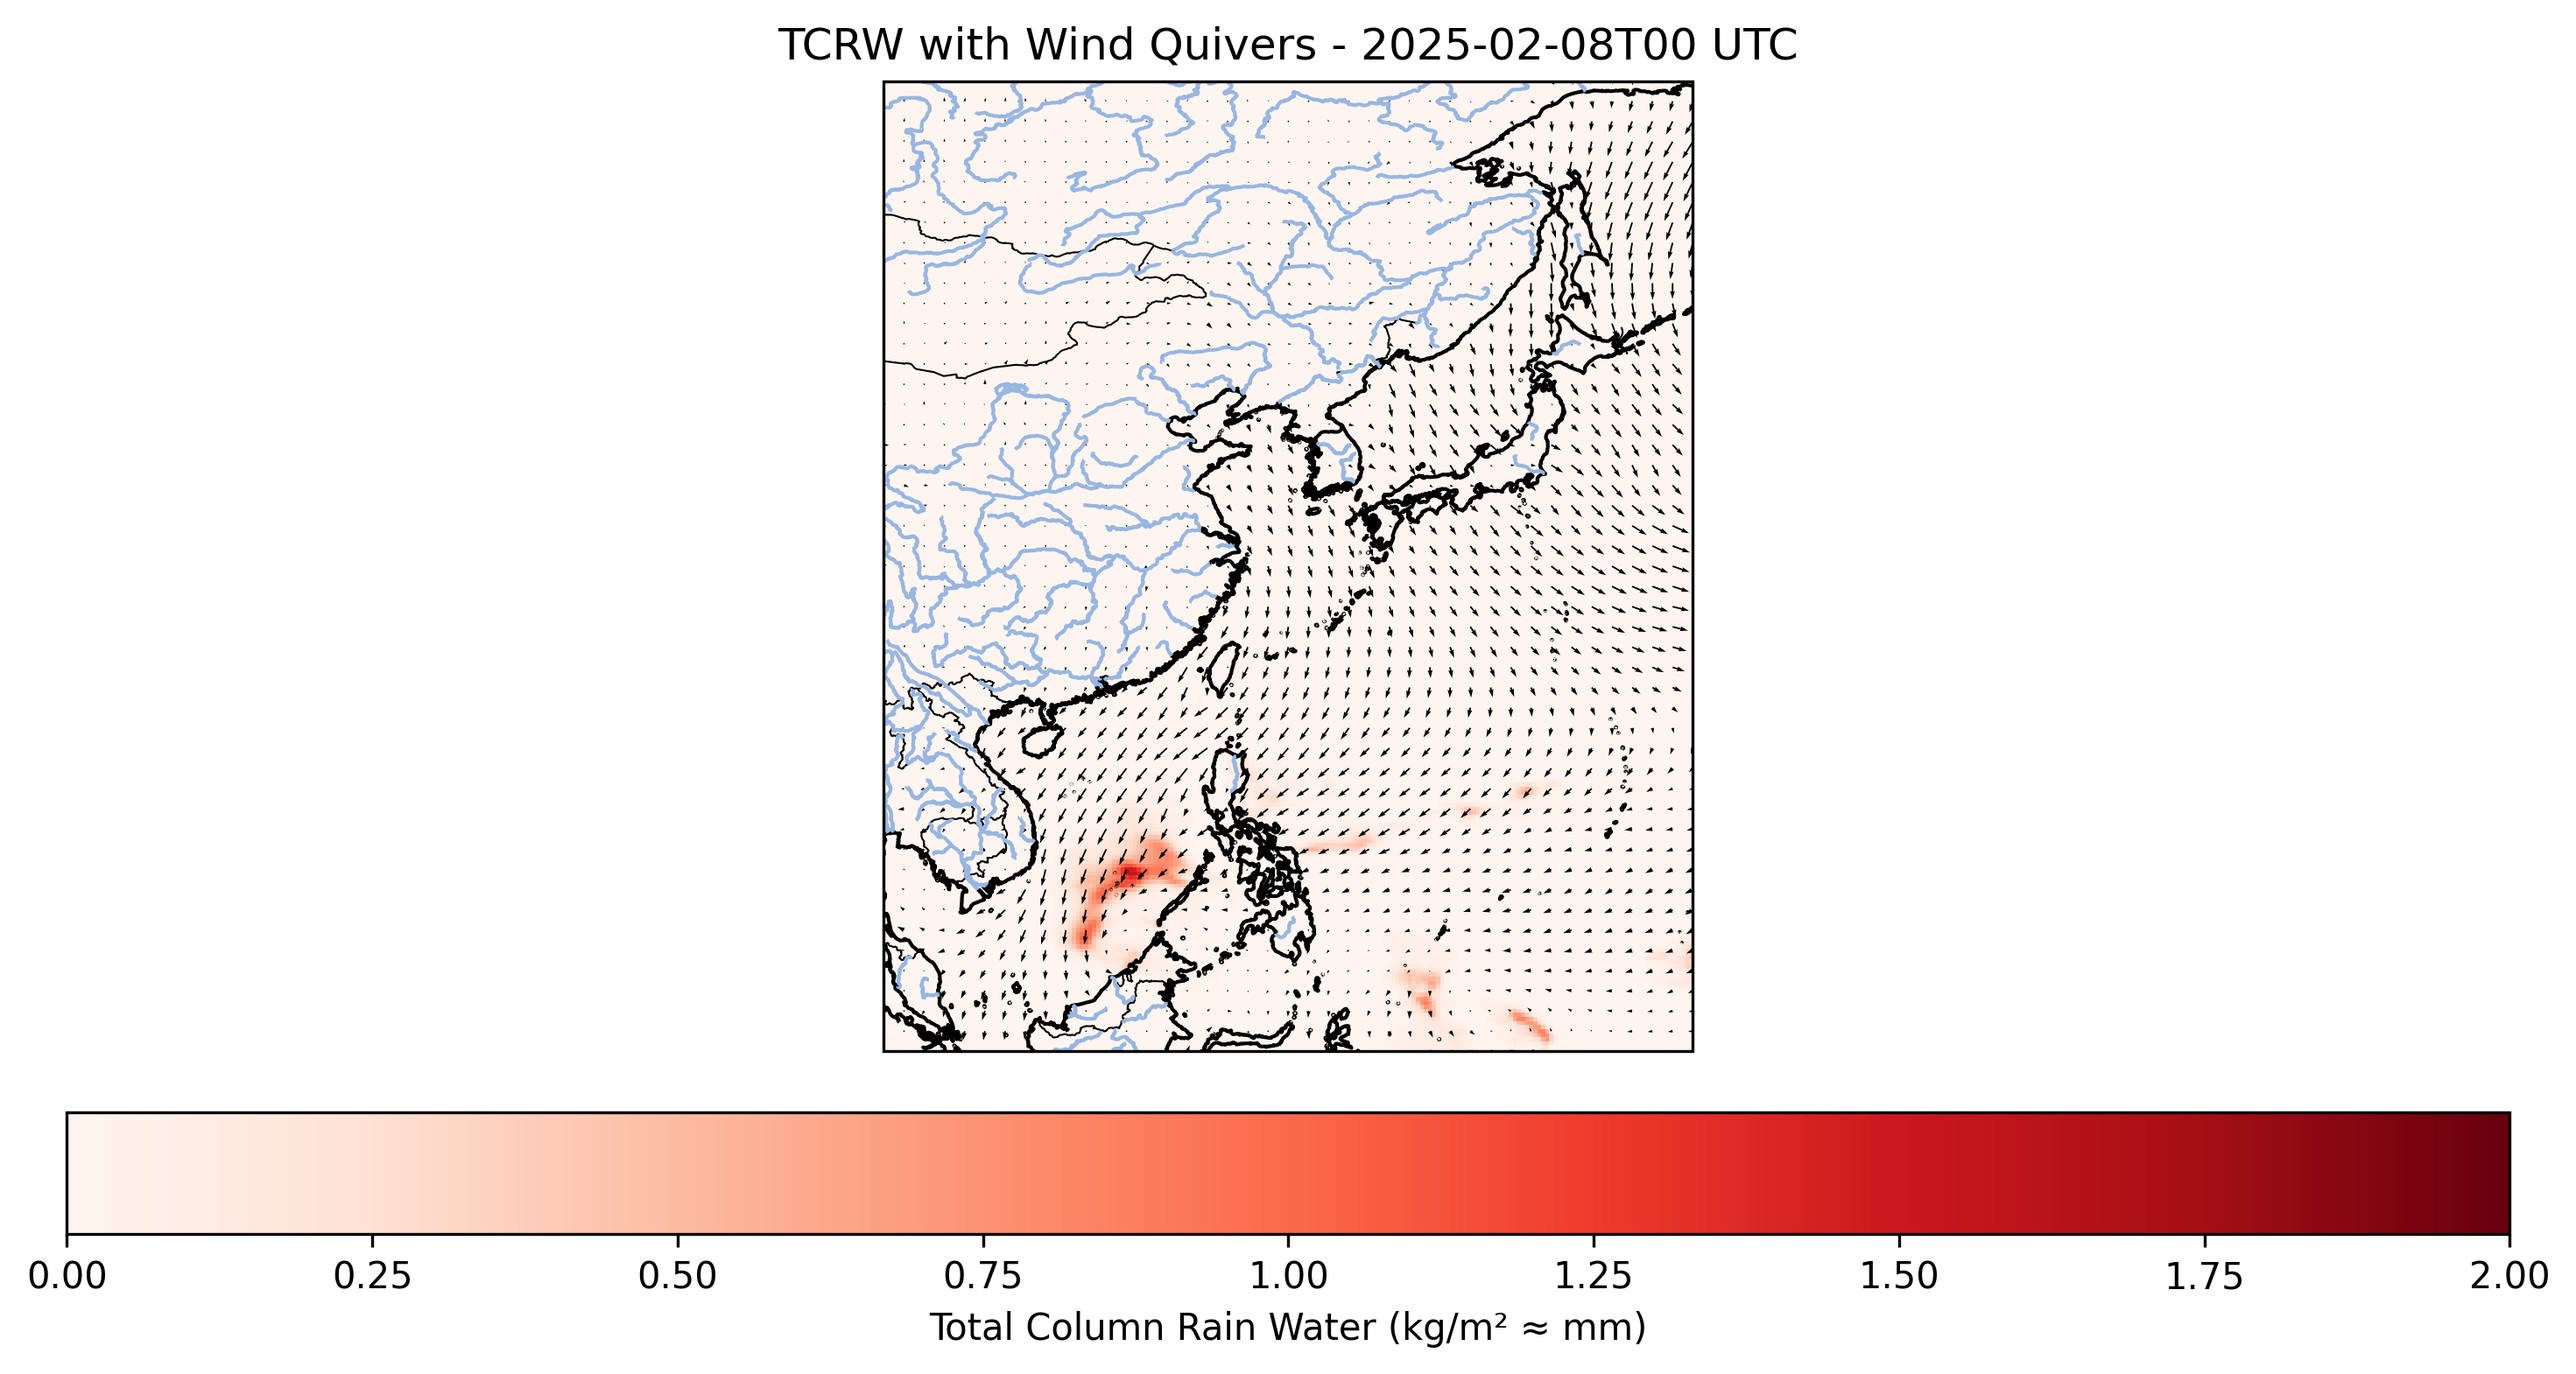
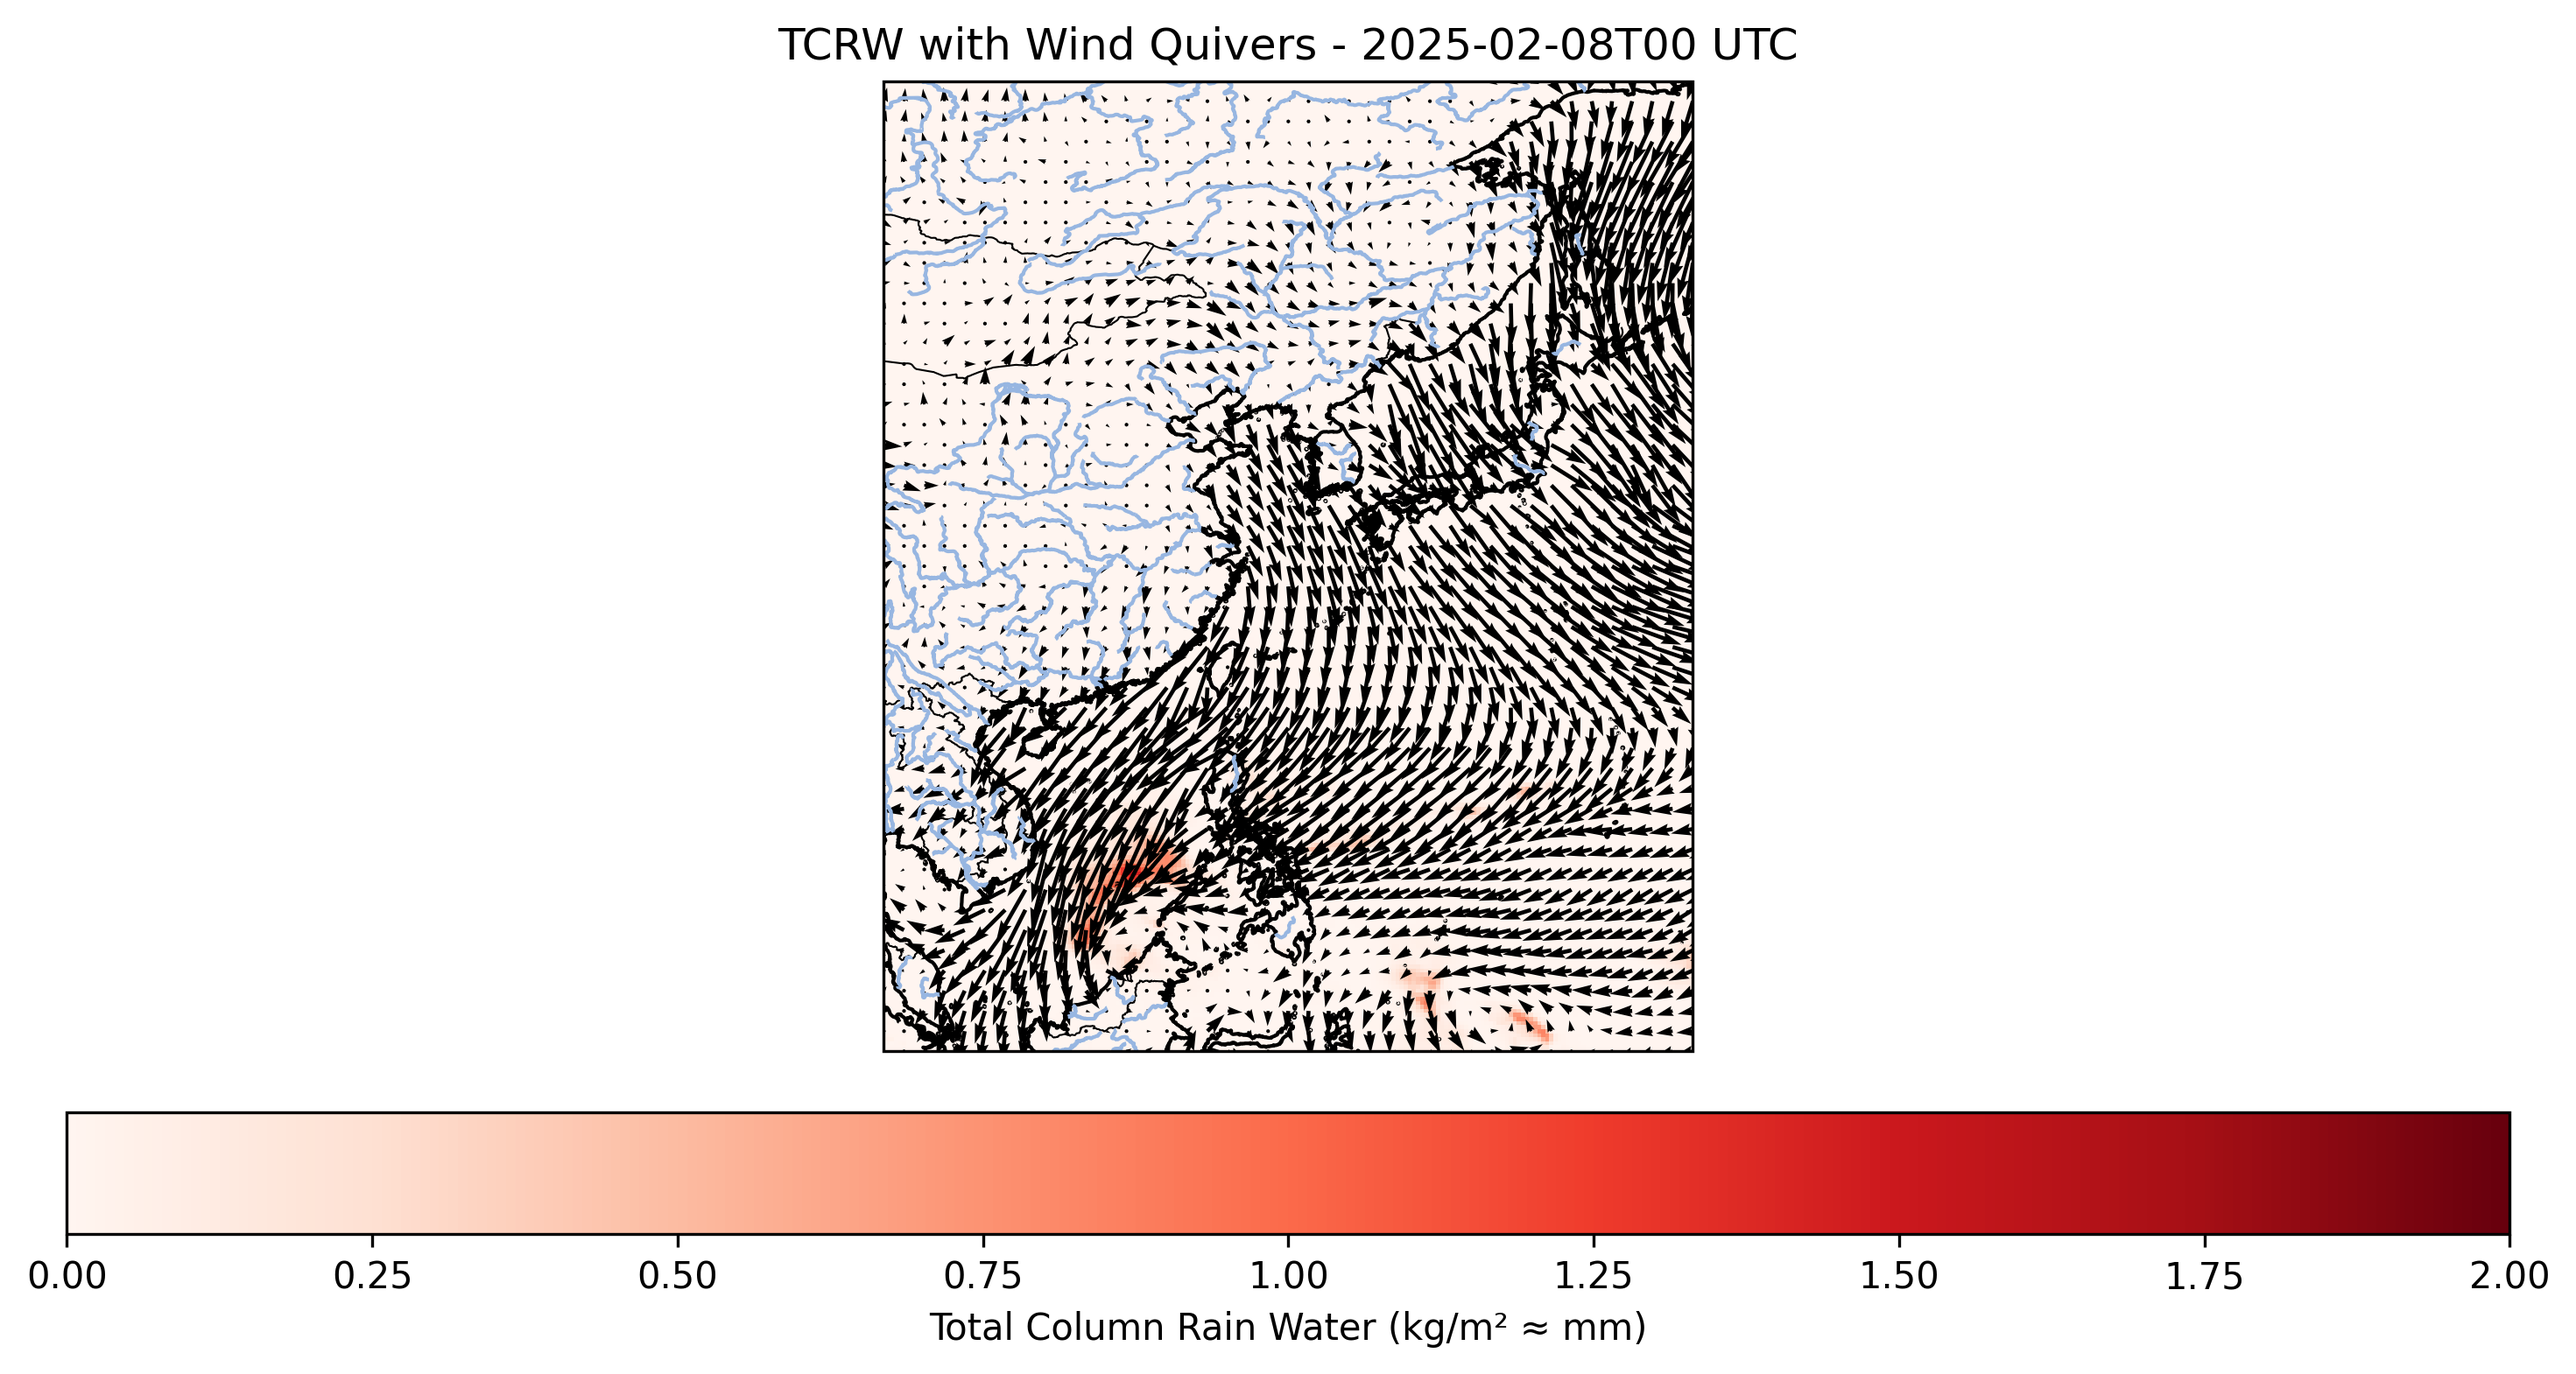
-added mslp_anomaly.py and tcrw_anomaly.py -edited quiver attributes

diff --git a/mslp_anomaly.py b/mslp_anomaly.py
@@ -1,0 +1,83 @@
+import os
+import numpy as np
+import xarray as xr
+import matplotlib.pyplot as plt
+import cartopy.crs as ccrs
+import cartopy.feature as cfeature
+
+def plot_mslp_wind_anomaly(mslp_anom, u_anom, v_anom, lon, lat, time, index, extent, output_dir):
+    """Plot MSLP anomaly with wind anomaly quivers."""
+    lon2d, lat2d = np.meshgrid(lon, lat)
+
+    fig, ax = plt.subplots(figsize=(10, 6), subplot_kw={'projection': ccrs.PlateCarree()})
+    ax.set_extent(extent, crs=ccrs.PlateCarree())
+    ax.coastlines(resolution='10m')
+    ax.add_feature(cfeature.LAND.with_scale('10m'), facecolor='lightgray')
+    ax.add_feature(cfeature.BORDERS.with_scale('10m'), linestyle=':')
+
+    # MSLP anomaly shading
+    pcm = ax.pcolormesh(
+        lon2d, lat2d, mslp_anom,
+        cmap='coolwarm_r',
+        vmin=-30, vmax=30,
+        shading='auto',
+        transform=ccrs.PlateCarree()
+    )
+    plt.colorbar(pcm, ax=ax, label='MSLP Anomaly (hPa)', orientation='vertical', fraction=0.046, pad=0.04)
+
+    # Wind anomaly quiver
+    skip = 5
+    ax.quiver(
+        lon[::skip], lat[::skip],
+        u_anom[::skip, ::skip], v_anom[::skip, ::skip],
+        scale=200, width=0.005, color='black',
+        transform=ccrs.PlateCarree()
+    )
+
+    timestamp = np.datetime_as_string(time, unit='h')
+    ax.set_title(f"MSLP Anomaly with Wind Anomaly - {timestamp} UTC")
+
+    plt.savefig(os.path.join(output_dir, f"mslp_wind_anomaly_{index:03}.png"), dpi=150, bbox_inches='tight')
+    plt.close()
+
+# === Main script ===
+
+# Input/output
+input_dir = r'Y:\wfs_shared\Personnel Files\DJEV\Palawan_Shear_Line\event'
+clim_mslp_file = r'mean_mslp_output\ndjfm_mslp_mean.nc'
+clim_wind_file = r'mean_wind_30years_output\30yr_NDJFM_mean_wind.nc'
+output_dir = 'mslp_anomaly_output'
+os.makedirs(output_dir, exist_ok=True)
+
+# Load event data
+ds_mslp = xr.open_dataset(os.path.join(input_dir, 'mslp.nc'))
+ds_u10 = xr.open_dataset(os.path.join(input_dir, 'u10.nc'))
+ds_v10 = xr.open_dataset(os.path.join(input_dir, 'v10.nc'))
+
+# Load climatology
+clim_mslp = xr.open_dataset(clim_mslp_file)['msl']
+clim_u10 = xr.open_dataset(clim_wind_file)['u10_mean']
+clim_v10 = xr.open_dataset(clim_wind_file)['v10_mean']
+
+# Variables
+mslp = ds_mslp['msl']
+u10 = ds_u10['u10']
+v10 = ds_v10['v10']
+
+lon = mslp.longitude.values
+lat = mslp.latitude.values
+times = mslp.valid_time.values
+
+extent = [100, 150, 0, 60]
+
+# Loop through time steps and call the function
+for i, time in enumerate(times):
+    mslp_evt = mslp.sel(valid_time=time).values.squeeze() / 100.0  # Pa to hPa
+    u10_evt = u10.sel(valid_time=time).values
+    v10_evt = v10.sel(valid_time=time).values
+
+    mslp_anom = mslp_evt - clim_mslp.values.squeeze() / 100.0
+    u_anom = u10_evt - clim_u10.values.squeeze()
+    v_anom = v10_evt - clim_v10.values.squeeze()
+
+    plot_mslp_wind_anomaly(mslp_anom, u_anom, v_anom, lon, lat, time, i, extent, output_dir)

diff --git a/tcrw_anomaly.py b/tcrw_anomaly.py
@@ -1,0 +1,85 @@
+import os
+import numpy as np
+import xarray as xr
+import matplotlib.pyplot as plt
+import cartopy.crs as ccrs
+import cartopy.feature as cfeature
+
+# Input/output file paths
+event_tcrw_file = r'Y:\wfs_shared\Personnel Files\DJEV\Palawan_Shear_Line\event\tcrw.nc'
+event_u10_file = r'Y:\wfs_shared\Personnel Files\DJEV\Palawan_Shear_Line\event\u10.nc'
+event_v10_file = r'Y:\wfs_shared\Personnel Files\DJEV\Palawan_Shear_Line\event\v10.nc'
+
+clim_tcrw_file = r'mean_tcwv_output\mean_tcrw_mean.nc'
+clim_wind_file = r'mean_wind_30years_output\30yr_NDJFM_mean_wind.nc'
+
+output_dir = 'tcrw_anomaly_output'
+os.makedirs(output_dir, exist_ok=True)
+
+# Load event datasets
+ds_tcrw = xr.open_dataset(event_tcrw_file)
+ds_u10 = xr.open_dataset(event_u10_file)
+ds_v10 = xr.open_dataset(event_v10_file)
+
+# Load climatology datasets
+clim_tcrw = xr.open_dataset(clim_tcrw_file)['tcrw']
+ds_clim_wind = xr.open_dataset(clim_wind_file)
+clim_u10 = ds_clim_wind['u10_mean']
+clim_v10 = ds_clim_wind['v10_mean']
+
+# Extract event data variables
+tcrw = ds_tcrw['tcrw']
+u10 = ds_u10['u10']
+v10 = ds_v10['v10']
+
+lon = tcrw.longitude.values
+lat = tcrw.latitude.values
+times = tcrw.valid_time.values
+
+extent = [100, 150, 0, 60]
+
+for i, time in enumerate(times):
+    # Event data at this time
+    tcrw_evt = tcrw.sel(valid_time=time).values.squeeze()
+    u10_evt = u10.sel(valid_time=time).values
+    v10_evt = v10.sel(valid_time=time).values
+
+    # Compute anomalies
+    tcrw_anom = tcrw_evt - clim_tcrw.values
+    u10_anom = u10_evt - clim_u10.values
+    v10_anom = v10_evt - clim_v10.values
+
+    # Set up figure and map
+    fig, ax = plt.subplots(figsize=(10, 6), subplot_kw={'projection': ccrs.PlateCarree()})
+    ax.set_extent(extent, crs=ccrs.PlateCarree())
+    ax.coastlines(resolution='10m')
+    ax.add_feature(cfeature.LAND.with_scale('10m'), facecolor='lightgray')
+    ax.add_feature(cfeature.BORDERS.with_scale('10m'), linestyle=':')
+
+    # Plot TCRW anomaly
+    lon2d, lat2d = np.meshgrid(lon, lat)
+    pcm = ax.pcolormesh(
+        lon2d, lat2d, tcrw_anom,
+        cmap='bwr',
+        vmin=-1, vmax=1,
+        shading='auto',
+        transform=ccrs.PlateCarree()
+    )
+    plt.colorbar(pcm, ax=ax, label='TCRW Anomaly (kg/m²)', orientation='vertical', fraction=0.046, pad=0.04)
+
+    # Wind anomaly quivers
+    skip = 5
+    ax.quiver(
+        lon[::skip], lat[::skip],
+        u10_anom[::skip, ::skip], v10_anom[::skip, ::skip],
+        scale=200, width=0.005, color='black',
+        transform=ccrs.PlateCarree()
+    )
+
+    # Title and save
+    timestamp = np.datetime_as_string(time, unit='h')
+    ax.set_title(f"TCRW Anomaly with Wind Anomaly - {timestamp} UTC")
+
+    filename = f"tcrw_wind_anomaly_{i:03}.png"
+    plt.savefig(os.path.join(output_dir, filename), dpi=150, bbox_inches='tight')
+    plt.close()

diff --git a/mslp+tcrw+quivers.py b/mslp+tcrw+quivers.py
@@ -55,7 +55,7 @@ def plot_mslp_with_quivers(mslp, u10, v10, time, index, extent, output_dir):
     ax.quiver(
         u10.longitude.values[::skip], u10.latitude.values[::skip],
         u10_t[::skip, ::skip], v10_t[::skip, ::skip],
-        scale=700, width=0.002, color='black',
+        scale=200, width=0.005, color='black',
         transform=ccrs.PlateCarree()
     )
 
@@ -97,7 +97,7 @@ def plot_tcrw_with_quivers(tcrw, u10, v10, time, index, extent, output_dir):
     ax.quiver(
         u10.longitude.values[::skip], u10.latitude.values[::skip],
         u10_t[::skip, ::skip], v10_t[::skip, ::skip],
-        scale=700, width=0.002, color='black',
+        scale=200, width=0.005, color='black',
         transform=ccrs.PlateCarree()
     )
 
